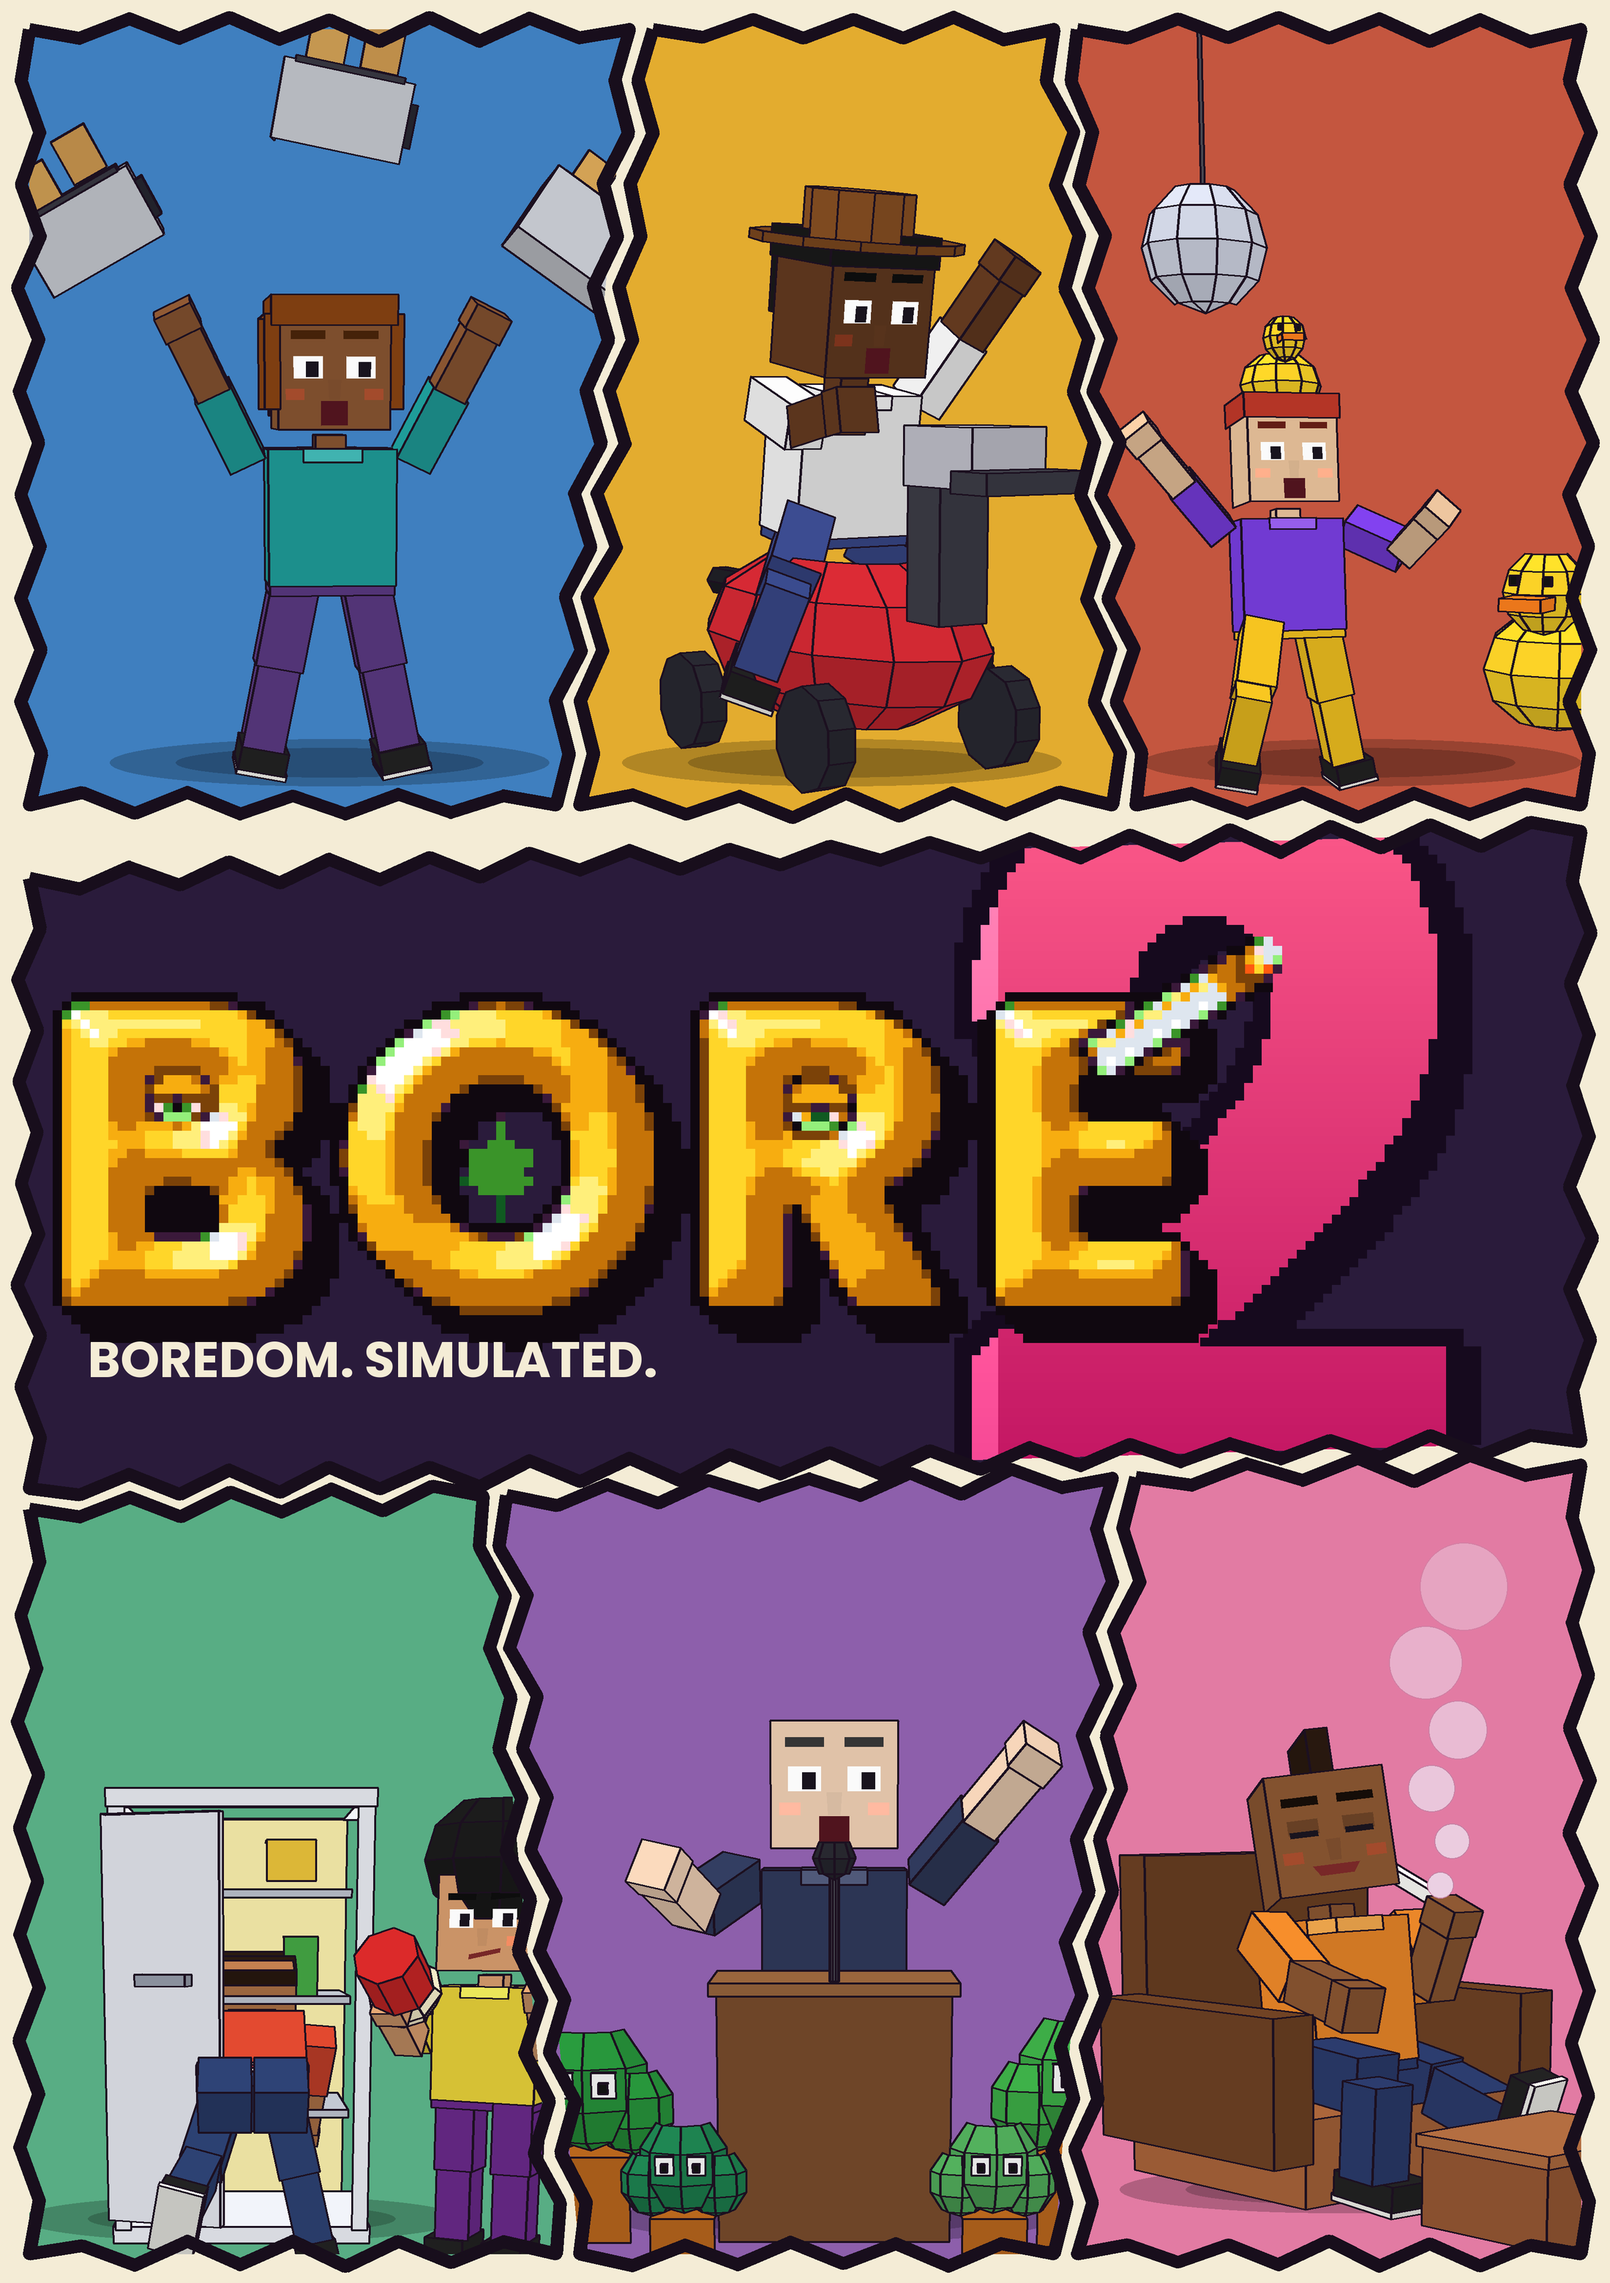
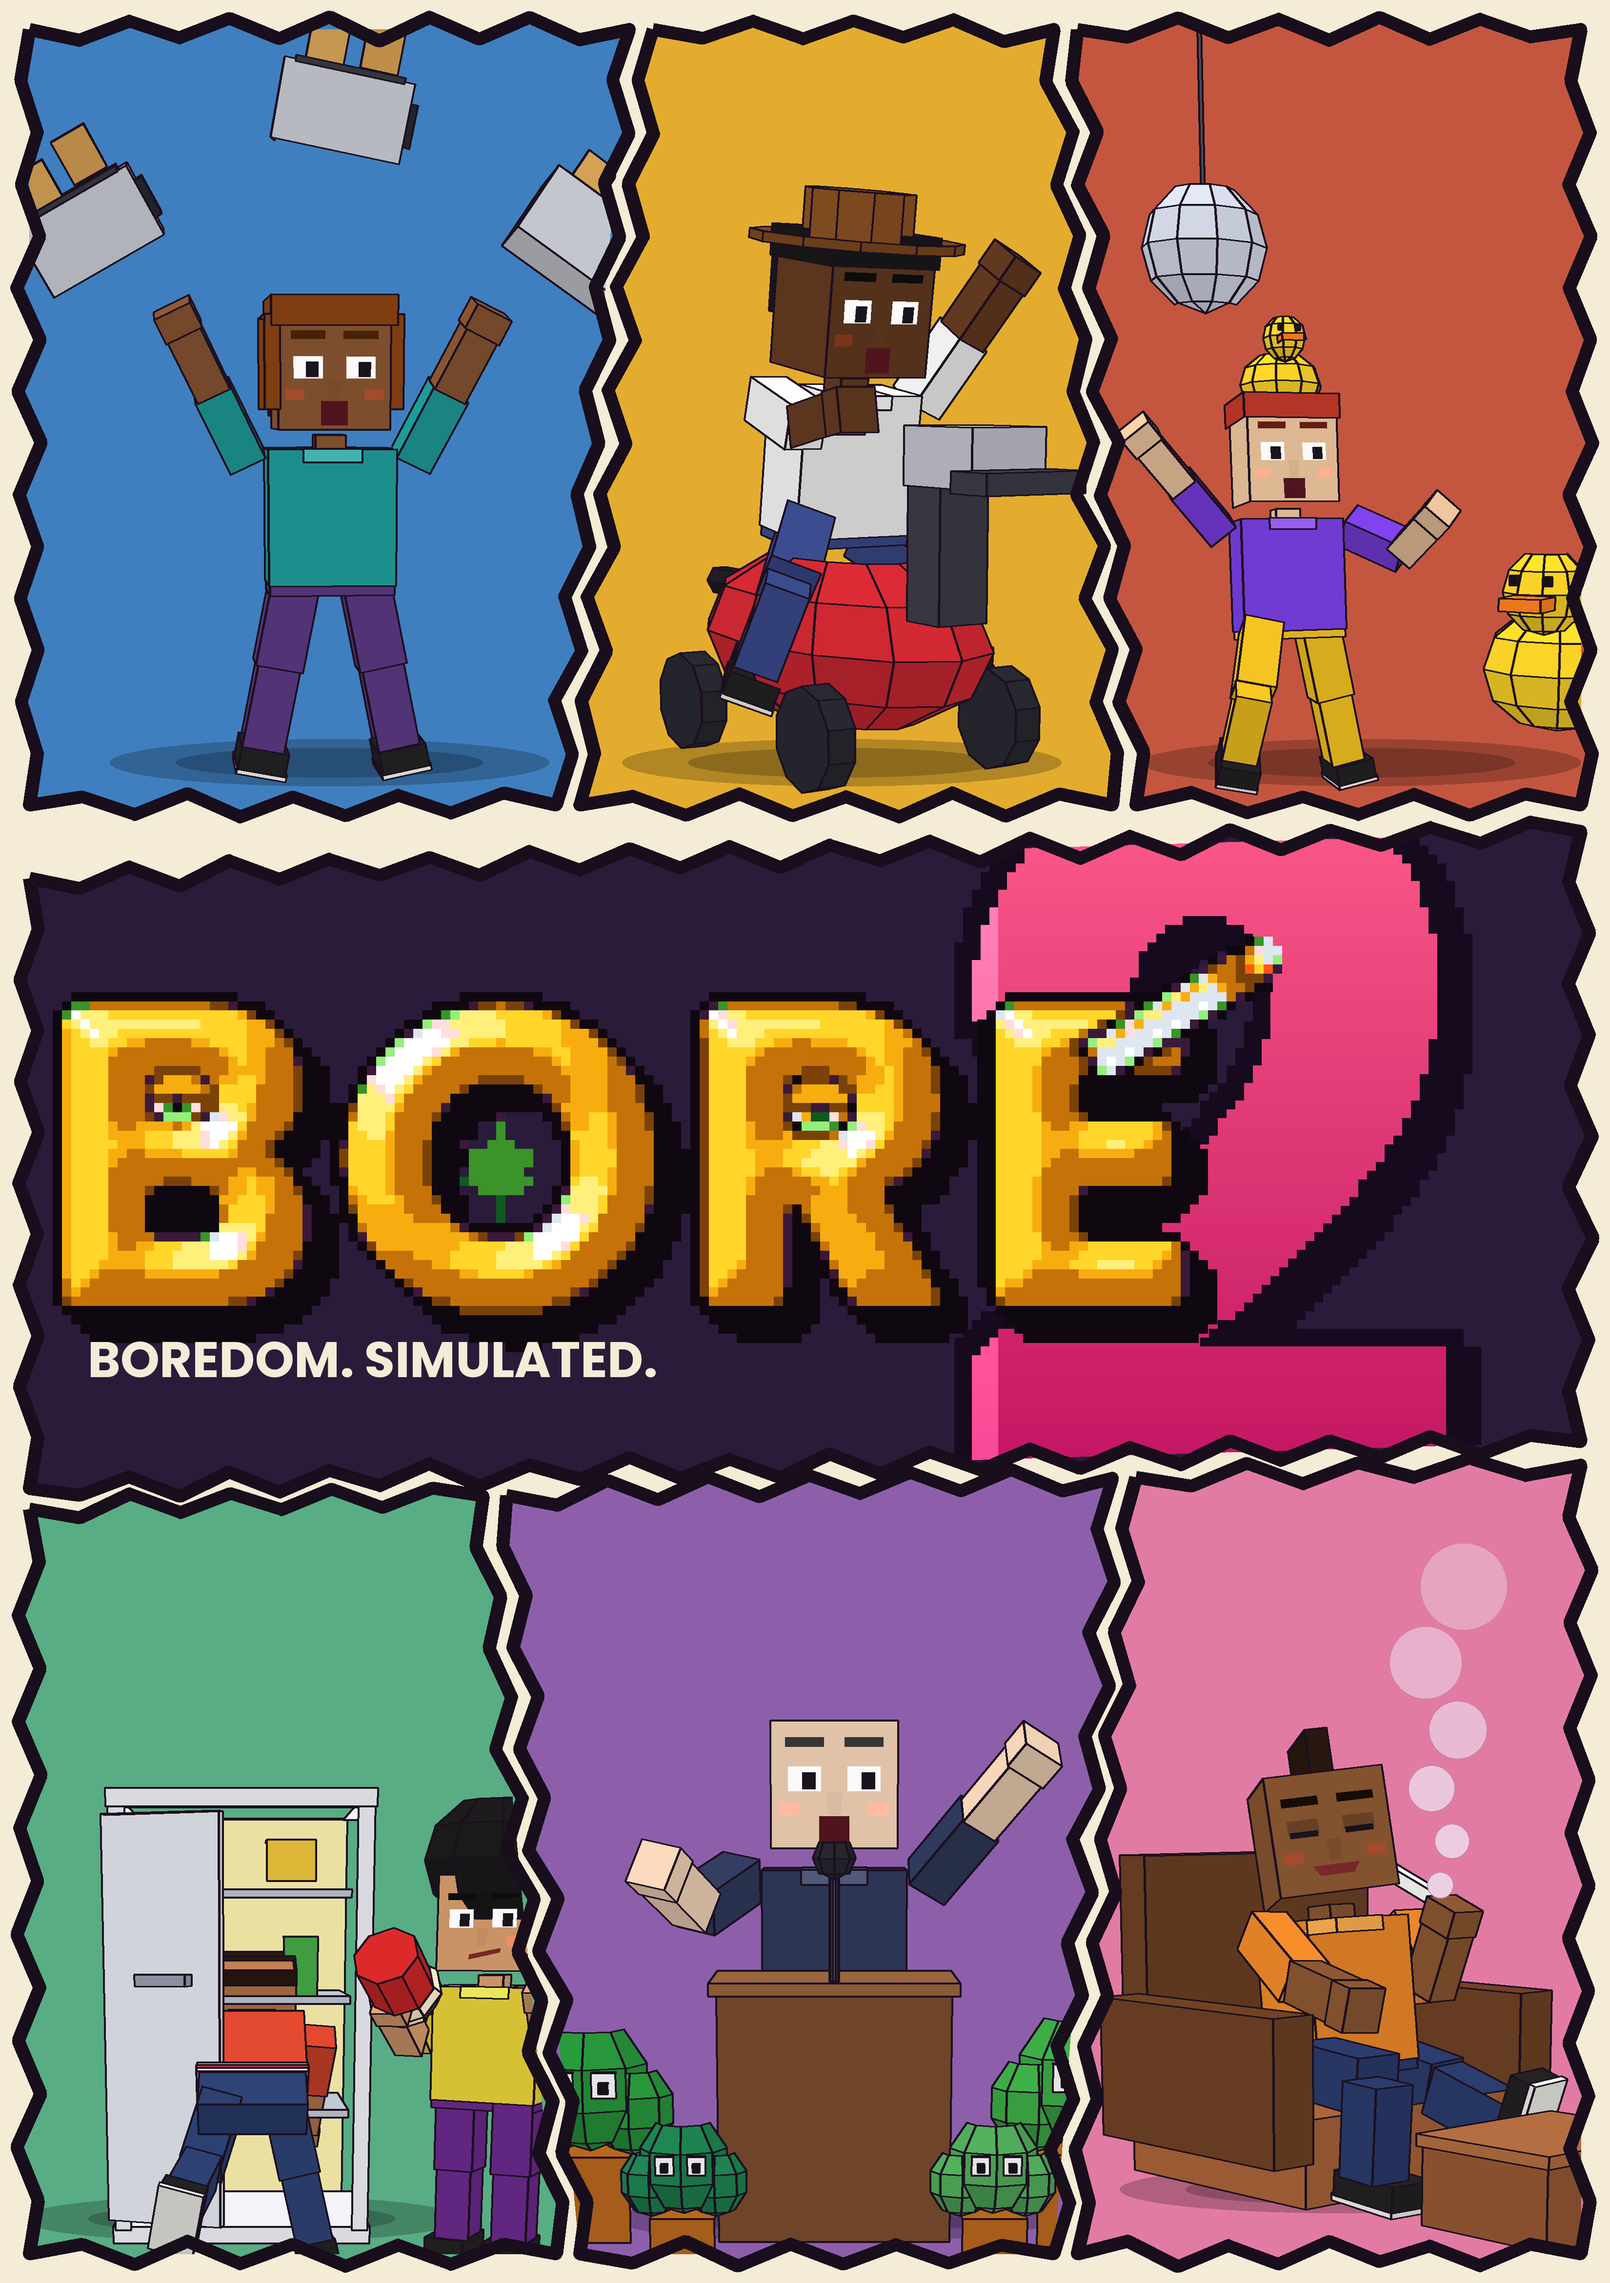
Box art: smaller one-piece rear, no centre seam
Claude-Session: https://claude.ai/code/session_01HmRg38Ho1eHKsYp7LCd8R6

diff --git a/tools/boxart/scenes.py b/tools/boxart/scenes.py
@@ -43,7 +43,7 @@ def fridge():
     for yy in(1.1,2.2,3.2): sc.box((0,yy,-0.2),(2.1,0.07,1.5),(190,196,206))
     sc.box((-0.6,1.35,-0.5),(0.4,0.5,0.4),(220,60,60)); sc.box((0.6,2.5,-0.4),(0.35,0.6,0.35),(70,170,70)); sc.box((0.5,3.55,-0.5),(0.5,0.4,0.5),(240,200,60)); sc.box((-0.7,2.55,-0.5),(0.5,0.4,0.5),(90,120,220))
     sc.push(ry(1.25),(-1.25,0,0.8)); sc.box((0.0,2.0,0.55),(0.12,3.8,1.15),(226,228,236)); sc.box((-0.0,2.4,0.55),(0.2,0.1,0.5),(150,156,170)); sc.pop()
-    bore(sc,pos=(0.1,0,1.35),yaw=math.pi,skin=2,shirt='#d4452d',pants='#2b3f6e',hair='#2a1a10',style='short',face='shock',armL=(-1.6,0.1),armR=(-1.6,-0.1),legL=(0.15,-0.22),legR=(0.55,0.28),kneeR=0.7,lean=1.0,head=(0.3,0,0),butt=1.3)
+    bore(sc,pos=(0.1,0,1.35),yaw=math.pi,skin=2,shirt='#d4452d',pants='#2b3f6e',hair='#2a1a10',style='short',face='shock',armL=(-1.6,0.1),armR=(-1.6,-0.1),legL=(0.15,-0.22),legR=(0.55,0.28),kneeR=0.7,lean=1.0,head=(0.3,0,0),butt=1.0)
     bucket=lambda s:(s.cyl((0,-0.1,0.2),0.3,0.5,(210,40,40),n=8),s.ell((0,0.22,0.2),(0.36,0.27,0.36),(255,246,210),nl=4,nn=8),s.box((0.12,0.42,0.22),(0.14,0.14,0.14),(255,250,225)))
     bore(sc,pos=(2.35,0,1.0),yaw=-0.5,skin=1,shirt='#e8d23a',pants='#6a2a8a',hair='#1b1b1b',style='afro',face='smirk',armL=(-0.7,0),elbL=-1.5,armR=(-0.6,0),elbR=-2.0,propL=bucket)
     return sc

diff --git a/tools/boxart/bore.py b/tools/boxart/bore.py
@@ -18,7 +18,7 @@ def bore(sc,pos=(0,0,0),yaw=0.0,skin=1,shirt='#c0392b',pants='#2c3e6b',hair='#2a
     sc.box((0,0.02,0),(0.98,0.2,0.54),pa)
     if butt:   # a blocky rear to match the rest of the model: two box cheeks under a boxer band
         sc.box((0,0.17,0),(1.02,0.12,0.58),(238,238,244)); sc.box((0,0.17,0),(1.03,0.04,0.59),(215,60,80))
-        for sx in(-1,1): sc.box((sx*0.25,-0.14,-0.16*butt),(0.48,0.5,0.3+0.12*butt),pa)
+        sc.box((0,-0.12,-0.1*butt),(0.98,0.46,0.26+0.08*butt),pa)
     # arms
     for side,(a,zz),el in((-1,armL,elbL),(1,armR,elbR)):
         sc.push(rx(a)@rz(zz),(side*0.66,0.98,0))
